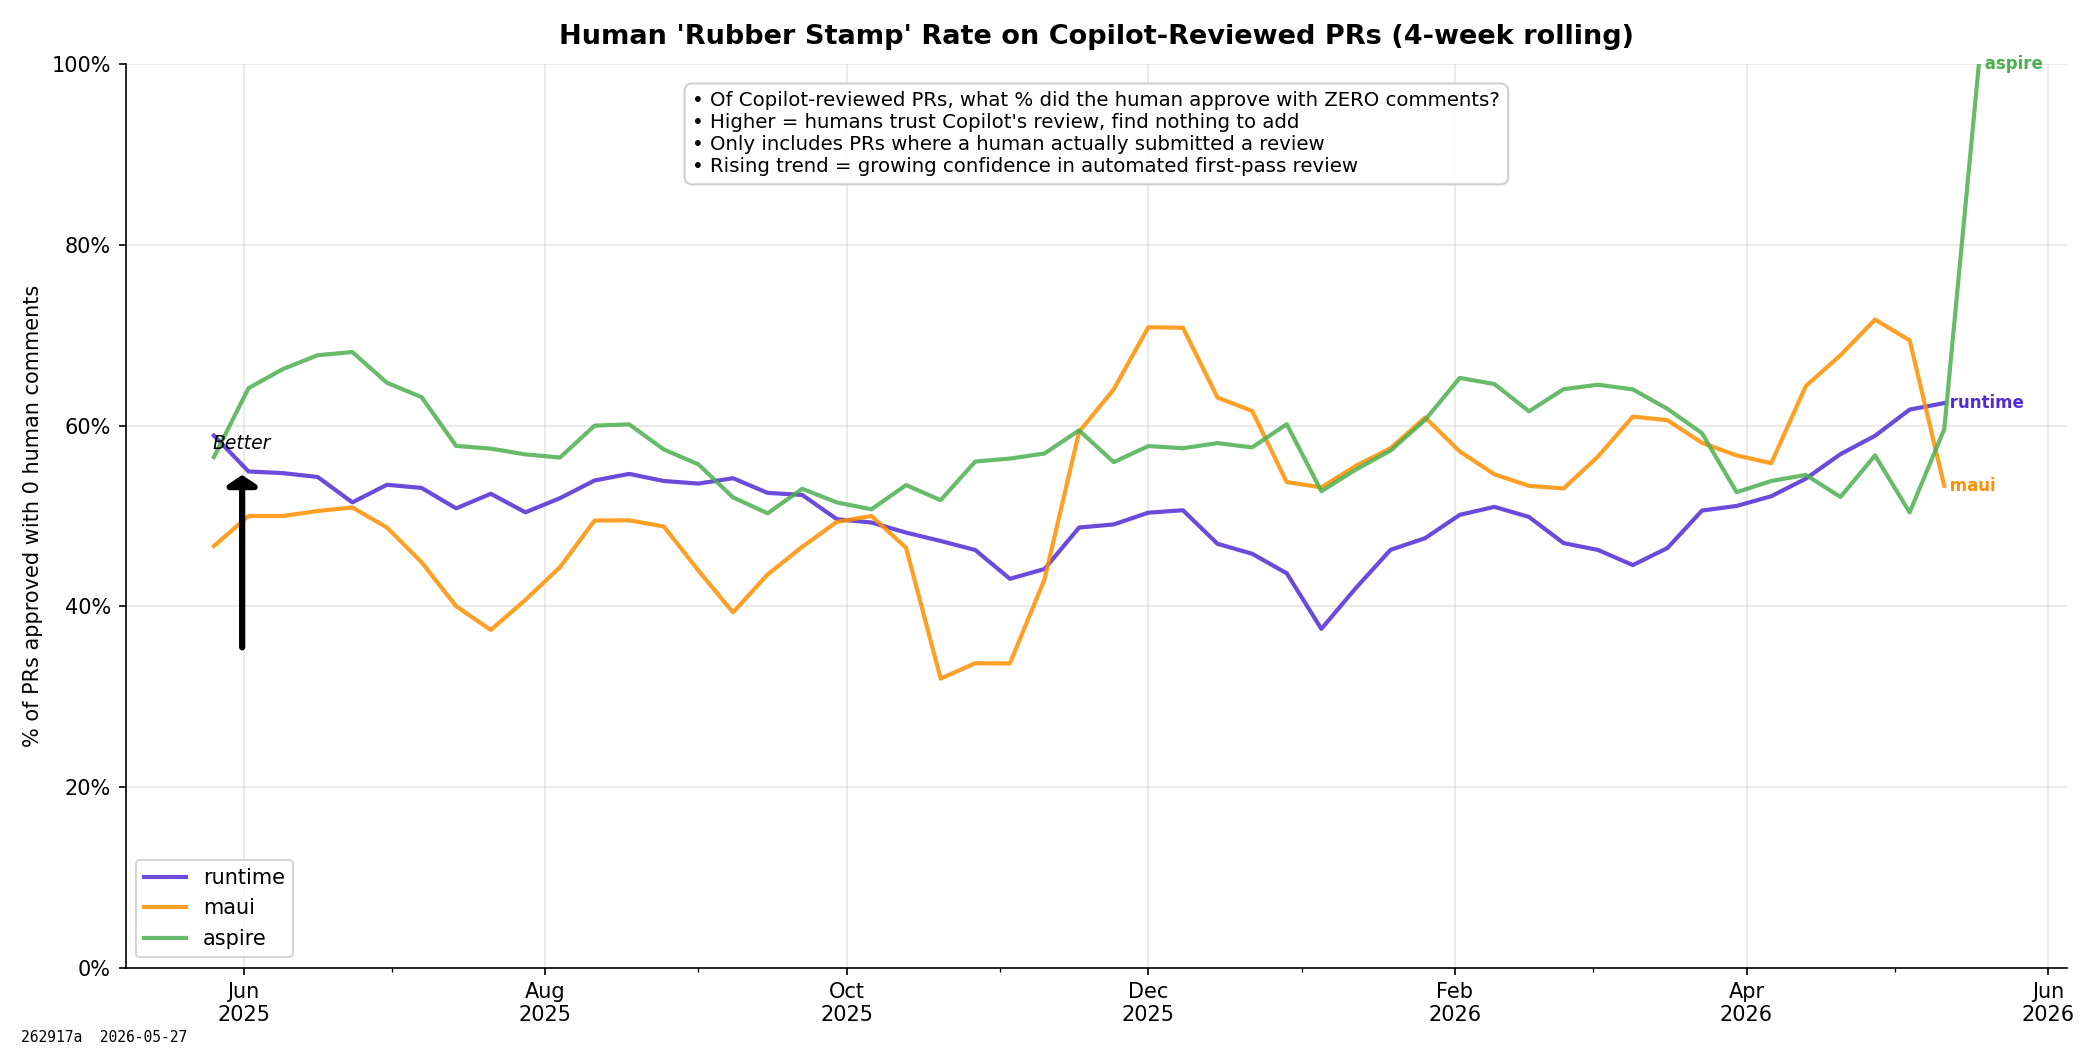
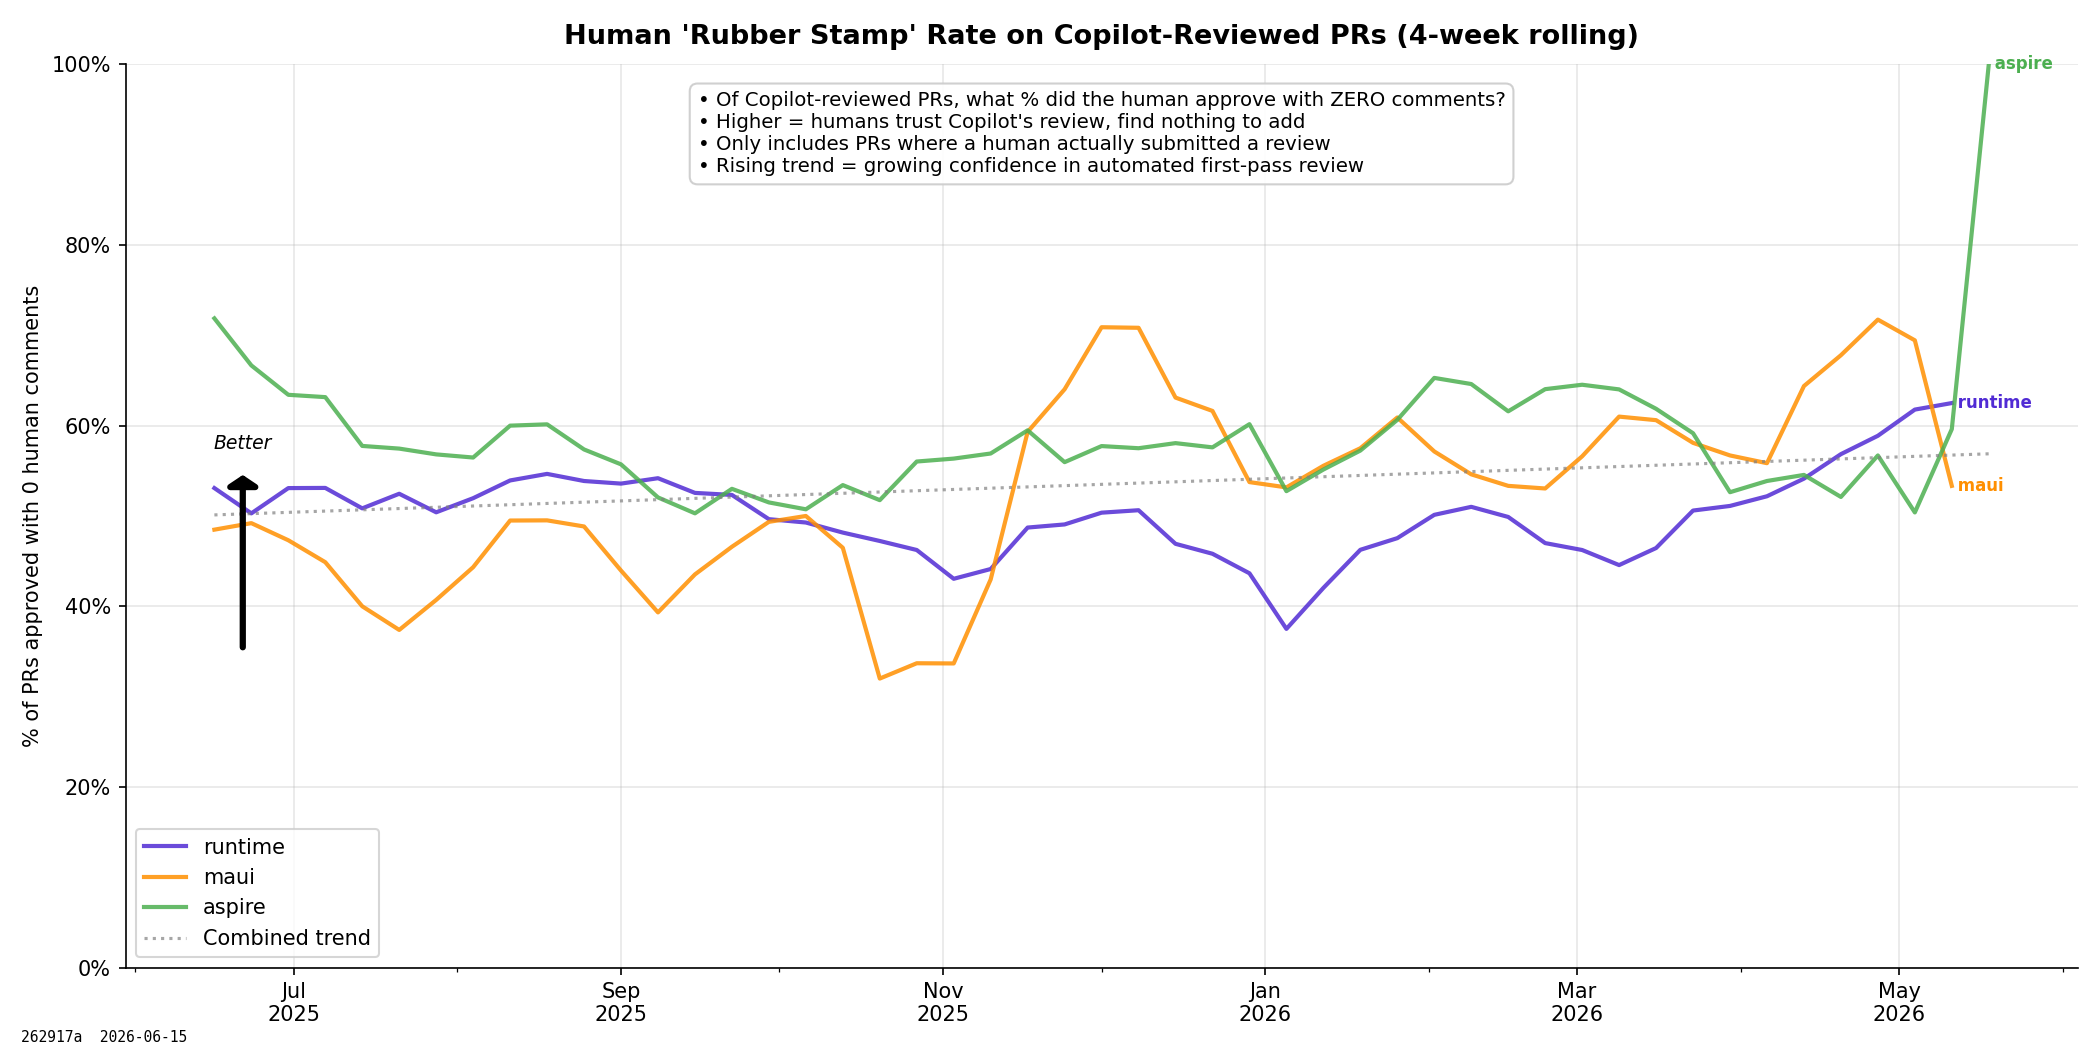
Add combined trend line to rubber stamp chart (#33)

diff --git a/analyze.py b/analyze.py
@@ -4836,6 +4836,7 @@ def chart_review_rubber_stamp_rate(all_items, review_data, output_dir):
 
     visible_data = []
     line_ends = []
+    combined_stamp_by_week = defaultdict(lambda: [0, 0])  # week -> [stamp_count, total_count]
     active_repos = _repos_with_copilot_activity(all_items, review_data)
     for repo in active_repos:
         items = all_items.get(repo)
@@ -4877,8 +4878,10 @@ def chart_review_rubber_stamp_rate(all_items, review_data, output_dir):
                         and any(r["state"] == "APPROVED" for r in human_reviews))
             wk = week_start(cd)
             stamp_by_week[wk][1] += 1
+            combined_stamp_by_week[wk][1] += 1
             if is_stamp:
                 stamp_by_week[wk][0] += 1
+                combined_stamp_by_week[wk][0] += 1
 
         if not stamp_by_week:
             continue
@@ -4907,6 +4910,31 @@ def chart_review_rubber_stamp_rate(all_items, review_data, output_dir):
         plt.close(fig)
         print("  (skipping rubber stamp rate — no data)")
         return
+
+    # Combined linear regression across all repos
+    import numpy as np
+    combined_x, combined_y = [], []
+    w = min(combined_stamp_by_week.keys()) if combined_stamp_by_week else cutoff
+    w = week_start(w)
+    while w <= last_complete_week:
+        window_stamps = 0
+        window_total = 0
+        for k in range(4):
+            s, t = combined_stamp_by_week.get(w - timedelta(weeks=k), (0, 0))
+            window_stamps += s
+            window_total += t
+        if window_total >= 5:
+            combined_x.append(w)
+            combined_y.append(100.0 * window_stamps / window_total)
+        w += timedelta(weeks=1)
+    if len(combined_x) >= 2:
+        x_numeric = np.array([(d - combined_x[0]).days for d in combined_x], dtype=float)
+        y_arr = np.array(combined_y, dtype=float)
+        coeffs = np.polyfit(x_numeric, y_arr, 1)
+        trend_y = np.polyval(coeffs, x_numeric)
+        ax.plot(combined_x, trend_y, color="gray", linestyle=":", linewidth=1.5,
+                alpha=0.7, label="Combined trend")
+
     ax.set_ylim(0, 100)
     ax.xaxis.set_major_locator(mdates.MonthLocator(interval=2))
     ax.xaxis.set_major_formatter(mdates.DateFormatter("%b\n%Y"))
